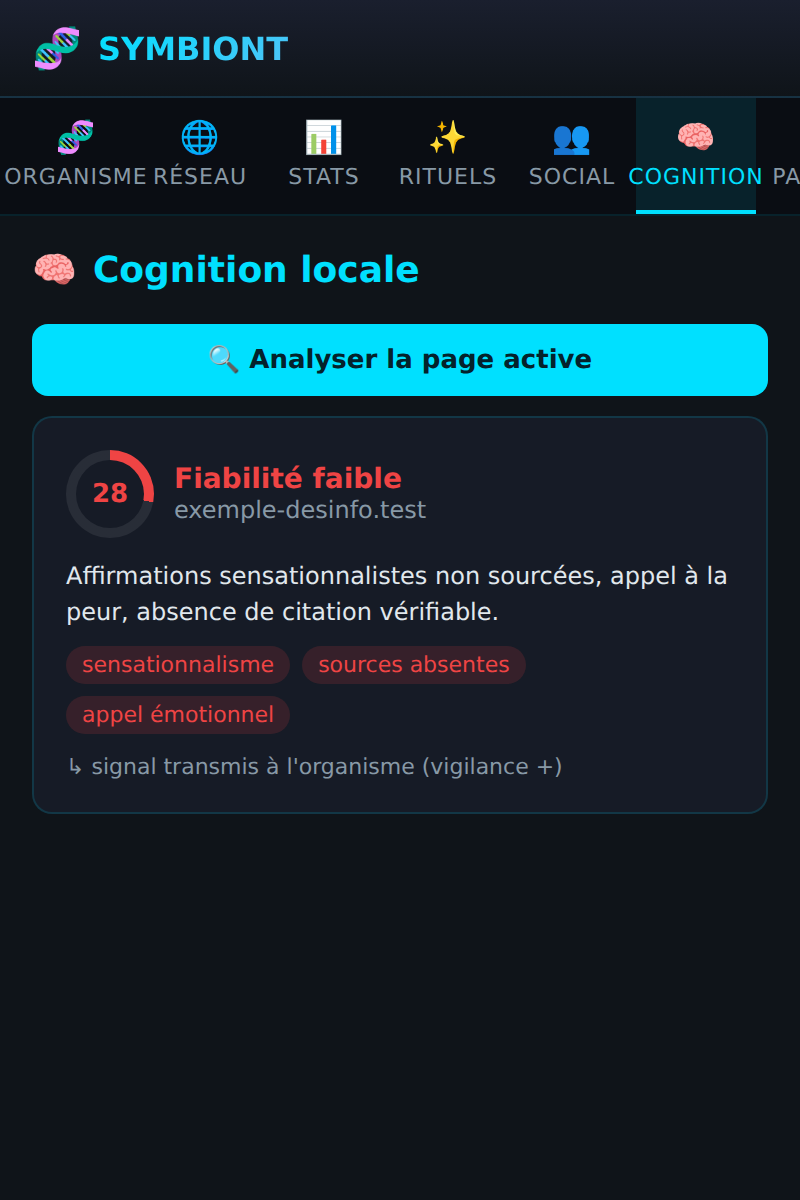
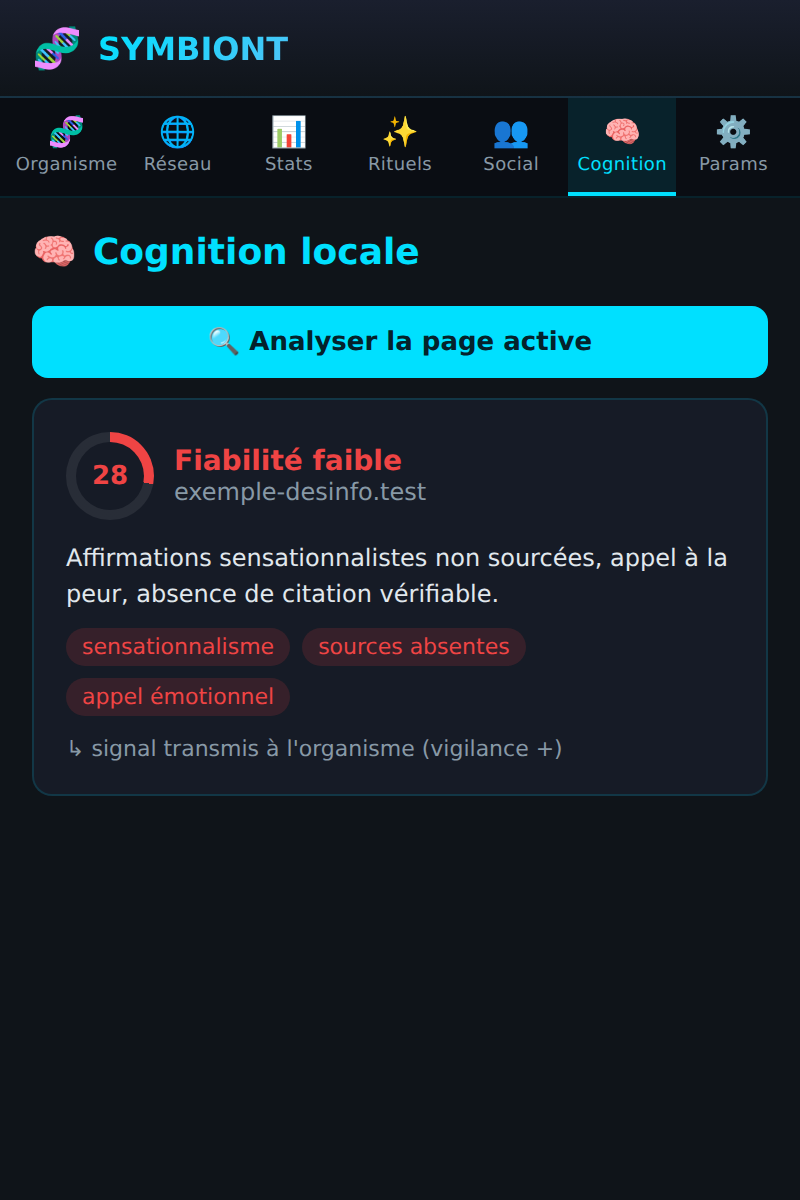
fix(popup): fit all 7 nav tabs in the 400px popup (no more cut-off)
Adding the Cognition tab pushed the nav past the popup width, hiding "Params"
behind a horizontal scroll. Nav buttons are now flex:1 / minWidth:0 so the 7
tabs share the width evenly; smaller font + tighter padding, no uppercase.
Regenerated the wiki screenshots to match.

Claude-Session: https://claude.ai/code/session_01NTBzRu154G5yvQajkq9dM1

diff --git a/src/popup/App.tsx b/src/popup/App.tsx
@@ -69,33 +69,35 @@ const App: React.FC = () => {
     },
     nav: {
       display: 'flex',
-      padding: '0 8px',
-      gap: '2px',
+      padding: '0 6px',
+      gap: '1px',
       backgroundColor: '#0a0d13',
       borderBottom: '1px solid rgba(0, 224, 255, 0.1)',
-      overflowX: 'auto' as const,
-      scrollbarWidth: 'none' as const
+      overflowX: 'hidden' as const
     },
+    // flex: 1 + minWidth: 0 → les 7 onglets se partagent équitablement la
+    // largeur du popup (400px) sans débordement ni scroll horizontal.
     navButton: (isActive: boolean) => ({
-      padding: '10px 12px',
+      flex: '1 1 0',
+      minWidth: 0,
+      padding: '8px 2px',
       backgroundColor: isActive ? 'rgba(0, 224, 255, 0.1)' : 'transparent',
       color: isActive ? '#00e0ff' : '#8899a6',
       border: 'none',
       borderBottom: isActive ? '2px solid #00e0ff' : '2px solid transparent',
       cursor: 'pointer',
-      fontSize: '11px',
+      fontSize: '9px',
       fontWeight: '500',
       transition: 'all 0.2s ease',
       display: 'flex',
       flexDirection: 'column' as const,
       alignItems: 'center',
-      gap: '4px',
-      minWidth: '60px',
-      textTransform: 'uppercase' as const,
-      letterSpacing: '0.5px'
+      gap: '3px',
+      whiteSpace: 'nowrap' as const,
+      letterSpacing: '0.2px'
     }),
     navIcon: {
-      fontSize: '16px'
+      fontSize: '15px'
     },
     content: {
       flex: 1,
